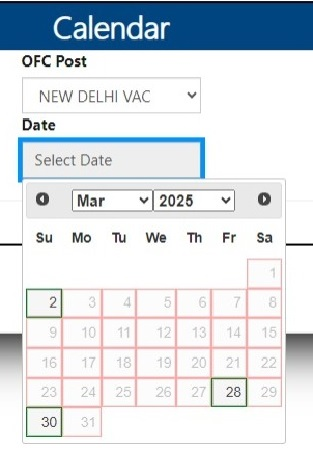
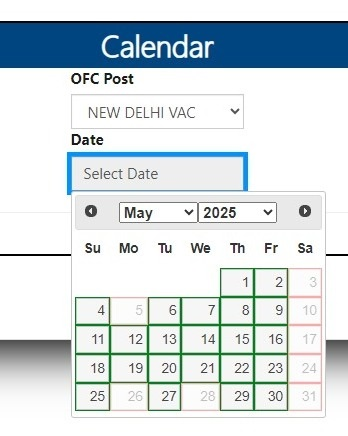
1
1

diff --git a/akramcruise2025.html b/akramcruise2025.html
@@ -50,7 +50,7 @@ margin: 0 0 0 2.25em; border: 1px solid coral; border-radius:.5em;">Back to www.
 સાથે સાથે, અમારી સાથે યુએસએ વિઝા પ્રક્રિયા શરૂ કરો અથવા અન્ય કોઈપણ તમારી પસંદગીના વિશ્વસનીય વિઝા એજન્ટ સાથે.<br>
 
 <br>યુએસએ ફ્રેશ વિઝિટર વિઝા, માટે લગભગ 1 વર્ષ 2 મહિનાના નુ લાંબુ વેઇટિંગ છે.<br>
-<span class="menu">વર્તમાન ઉપલબ્ધ તારીખ 19 માર્ચ 2025 મુંબઈ; 2 માર્ચ 2025 દિલ્હી. (સવારે 5:56 વાગ્યે તારીખ 16-02-2024 ના રોજ ની સ્થીતી.)</span><br>
+<span class="menu">વર્તમાન ઉપલબ્ધ તારીખ 8 મે 2025 મુંબઈ; 15 એપ્રિલ 2025 દિલ્હી. (સવારે 6:05 વાગ્યે તારીખ 19-02-2024 ના રોજ ની સ્થીતી.)</span><br>
 (On US Visa Official Appointment Website https://www.usvisascheduling.com/)
 <details><summary><span class="menu">વર્તમાન ઉપલબ્ધ એપોઇન્ટમેન્ટની તારીખ ના શહેર મુજબ સ્ક્રીન શોટ્સ માટે કાળા ત્રિકોણ પર ક્લિક કરો</span></summary>
 <div class="flexbox">
@@ -63,7 +63,7 @@ margin: 0 0 0 2.25em; border: 1px solid coral; border-radius:.5em;">Back to www.
 <img src="5.jpeg">
 <img src="6.jpeg">
 <img src="7.jpeg">
-<img src="8.jpeg">
+<!-- <img src="8.jpeg"> -->
 </div>
 </details>
 <br><br>ક્રુઝ તારીખ જુલાઈ 2025 પહેલા જે પણ તારીખ ઉપલબ્ધ હોય તે બુક કરો. (તમારા હાથમાં બીજું કંઈ નથી)
